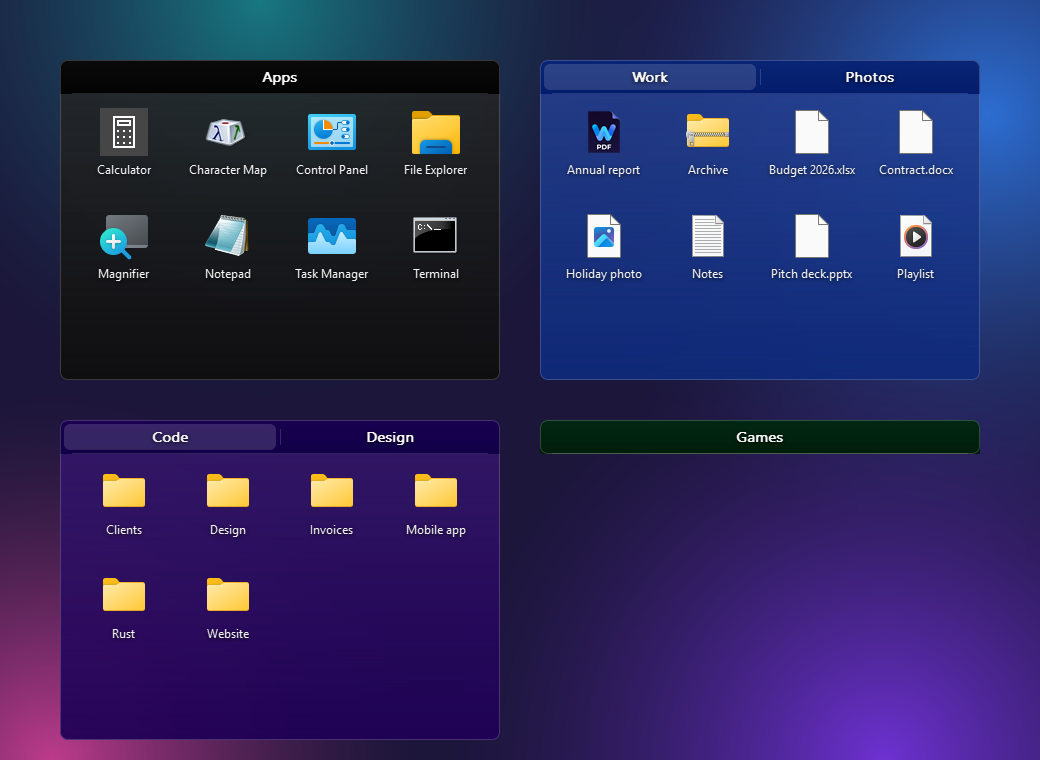
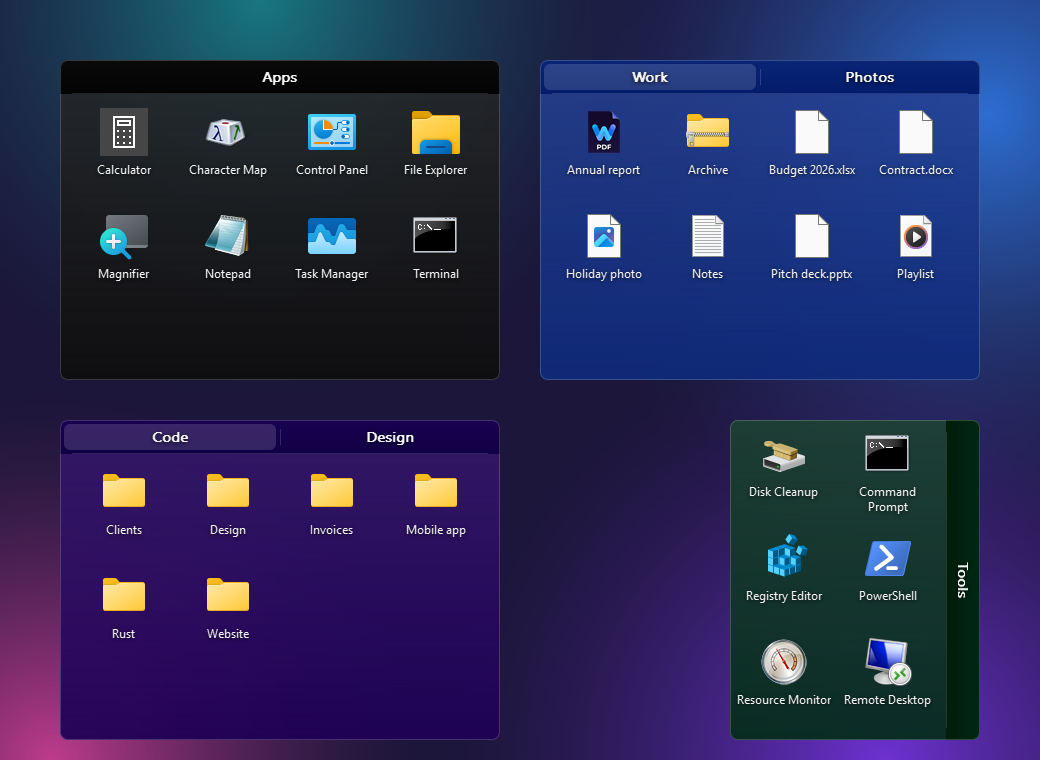
docs: README and screenshots for 0.9, cargo audit in CI and release, rustls security updates
- rustls 0.23.46, rustls-webpki 0.103.16, webpki-roots 1.0.11 (RUSTSEC-2026-0346..0349, 0381, 0382).
- cargo audit runs in CI and before every release.
- README: vertical fences and system icons usage, system_e2e, architecture.
- New screenshot with a vertical fence.

Changed region(s): [[0.5231, 0.5447, 0.9538, 0.9987]]

diff --git a/README.md b/README.md
@@ -66,6 +66,8 @@ updates are automatic again afterwards.
 | Rename a fence | Right-click its title |
 | Move / resize | Drag the title bar / drag an edge |
 | Roll up / down | Double-click the title bar |
+| Vertical fence | Right-click a fence → **Vertical title**, then park it on a screen edge |
+| System icons | Right-click a fence → **System icons** (This PC, Recycle Bin, Network…) |
 | Icon size | **Ctrl + mouse wheel** over a fence |
 | Color, tabs, rules, delete | Right-click inside the fence |
 | Global options | Tray icon → **Settings** |
@@ -90,7 +92,7 @@ Native speakers: corrections are welcome in [`src/i18n/table.rs`](src/i18n/table
 - A newer `.msi` and its `.sha256` are downloaded **only** from this repository's release URLs over HTTPS; the hash
   must match before `msiexec /qn` runs. The installer then restarts the app.
 - Disable it from the tray menu (**Automatic updates**).
-- Only documented Windows APIs are used. Dependencies are scanned with `cargo audit` before each release.
+- Only documented Windows APIs are used. Dependencies are scanned with `cargo audit` on every push and before each release.
 
 ## Build from source
 
@@ -99,11 +101,12 @@ cargo test
 cargo build --release
 dotnet tool install --global wix --version 5.0.2
 wix extension add -g WixToolset.UI.wixext/5.0.2 WixToolset.Util.wixext/5.0.2
-wix build installer/main.wxs -d Version=0.8.0 -arch x64 -ext WixToolset.UI.wixext -ext WixToolset.Util.wixext -o rust-desktop-icons.msi
+wix build installer/main.wxs -d Version=X.Y.Z -arch x64 -ext WixToolset.UI.wixext -ext WixToolset.Util.wixext -o rust-desktop-icons.msi
 ```
 
 End-to-end checks on a real desktop (isolated data, test files only): `cargo build` then
-`cargo run --example keep_e2e` and `cargo run --example unroll_e2e` (moves the mouse for a few seconds).
+`cargo run --example keep_e2e`, `cargo run --example unroll_e2e` and `cargo run --example system_e2e` (they move the mouse
+for a few seconds). CI runs them on every push.
 
 Pushing a `vX.Y.Z` tag builds and publishes the MSI with [GitHub Actions](.github/workflows/release.yml).
 
@@ -111,11 +114,11 @@ Pushing a `vX.Y.Z` tag builds and publishes the MSI with [GitHub Actions](.githu
 
 | Module | Role |
 | --- | --- |
-| `domain/` | Pure, unit-tested logic: model, config, layout grid, sorting, rules, animation, pins |
+| `domain/` | Pure, unit-tested logic: model, config, layout grid, title bar side, sorting, rules, animation, pins, system icons |
 | `render/`, `layered/` | Pixel compositing (alpha, rounded rectangles, blur) and layered-window painting |
 | `fence/` | Fence window: layout, painting, tabs, drag & drop, selection, menus, roll animation |
 | `keep/` | "Keep files on the desktop" mode: migration, placement, hiding desktop icons |
-| `shell/` | Windows Shell wrappers: icons, shortcuts, folder watch, drag & drop, Recycle Bin, desktop view |
+| `shell/` | Windows Shell wrappers: icons, shortcuts, folder watch, drag & drop, system icons, desktop view |
 | `app/`, `tray/`, `settings/` | Global state, tray icon and update scheduling, settings window |
 | `store.rs`, `rules.rs`, `update.rs` | Persistence and safe moves, desktop auto-sort, release check and silent install |
 
